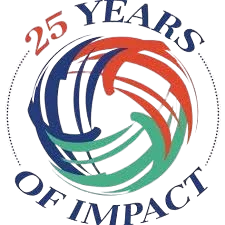
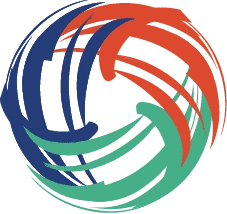
chore: refactor to use color tokens instead of raw colors

diff --git a/src/components/layout/footer.tsx b/src/components/layout/footer.tsx
@@ -4,6 +4,8 @@ import { Mail, MapPin } from 'lucide-react'
 import { SiFacebook, SiInstagram } from '@icons-pack/react-simple-icons'
 import { navLinks, org, socials } from '../../lib/data'
 import { ContactForm } from './contact-form'
+import Text from '../ui/text'
+import Heading from '../ui/heading'
 
 const LOGO_SRC = '/logo-images/logo_with_name_white.svg'
 
@@ -14,9 +16,7 @@ const socialLinks = [
 
 export function Footer() {
   return (
-    <footer className="flex bg-primary-950 text-white/70 justify-center">
-      {/* px-(--gutter): same side padding as the hero and page sections, so
-          footer content aligns with the rest of the site. Set in globals.css. */}
+    <footer className="flex bg-footer-bg text-footer-text justify-center">
       <div className="px-(--gutter) py-16 md:py-24">
         <div className="grid gap-12 lg:grid-cols-12">
           {/* Brand */}
@@ -34,38 +34,42 @@ export function Footer() {
                 className="h-8 w-auto"
               />
             </Link>
-            <p className="mt-5 max-w-sm text-sm leading-relaxed text-white/60">
+            <Text size="sm" className="mt-5 max-w-sm text-footer-text-muted">
               {org.about}
-            </p>
+            </Text>
 
             {/* Socials */}
-            <div className="mt-6 flex items-center gap-2">
+            <ul className="mt-6 flex items-center gap-2">
               {socialLinks.map(({ label, href, Icon }) => (
-                <a
-                  key={label}
-                  href={href}
-                  target="_blank"
-                  rel="noopener noreferrer"
-                  aria-label={label}
-                  className="inline-flex items-center justify-center rounded-full bg-white/5 p-2.5 text-white/70 transition-colors hover:bg-white/10 hover:text-white"
-                >
-                  <Icon size={20} aria-hidden="true" />
-                </a>
+                <li key={label}>
+                  <a
+                    href={href}
+                    target="_blank"
+                    rel="noopener noreferrer"
+                    aria-label={label}
+                    className="inline-flex items-center justify-center rounded-full bg-footer-surface p-2.5 text-footer-text transition-colors hover:bg-footer-surface-hover hover:text-footer-text-strong"
+                  >
+                    <Icon size={20} aria-hidden="true" />
+                  </a>
+                </li>
               ))}
-            </div>
+            </ul>
           </div>
 
           {/* Explore */}
-          <nav className="lg:col-span-2" aria-label="Footer">
-            <h3 className="text-sm font-semibold uppercase tracking-wider text-white">
+          <nav className="lg:col-span-2" aria-label="Footer navigation">
+            <Heading
+              level={3}
+              className="text-sm md:text-sm lg:text-sm font-semibold uppercase tracking-wider text-footer-text-strong"
+            >
               Explore
-            </h3>
-            <ul className="mt-4 space-y-2.5 text-sm">
+            </Heading>
+            <ul className="mt-4 space-y-2.5">
               {navLinks.map((link) => (
                 <li key={link.href}>
                   <Link
                     href={link.href}
-                    className="text-white/70 transition-colors hover:text-white"
+                    className="text-sm text-footer-text transition-colors hover:text-footer-text-strong"
                   >
                     {link.label}
                   </Link>
@@ -76,52 +80,62 @@ export function Footer() {
 
           {/* Get in touch */}
           <div className="lg:col-span-3">
-            <h3 className="text-sm font-semibold uppercase tracking-wider text-white">
+            <Heading
+              level={3}
+              className="text-sm md:text-sm lg:text-sm font-semibold uppercase tracking-wider text-footer-text-strong"
+            >
               Get in touch
-            </h3>
-            <ul className="mt-4 space-y-4 text-sm">
-              <li>
-                <a
-                  href={org.mapUrl}
-                  target="_blank"
-                  rel="noopener noreferrer"
-                  className="flex items-start gap-3 text-white/70 transition-colors hover:text-white"
-                >
-                  <MapPin
-                    size={18}
-                    className="mt-0.5 shrink-0"
-                    aria-hidden="true"
-                  />
-                  <span>{org.address}</span>
-                </a>
-              </li>
-              <li>
-                <a
-                  href={`mailto:${org.email}`}
-                  className="flex items-center gap-3 text-white/70 transition-colors hover:text-white"
-                >
-                  <Mail size={18} className="shrink-0" aria-hidden="true" />
-                  <span>{org.email}</span>
-                </a>
-              </li>
-            </ul>
+            </Heading>
+            <address className="not-italic">
+              <ul className="mt-4 space-y-4">
+                <li>
+                  <a
+                    href={org.mapUrl}
+                    target="_blank"
+                    rel="noopener noreferrer"
+                    className="flex items-start gap-3 text-sm text-footer-text transition-colors hover:text-footer-text-strong"
+                  >
+                    <MapPin
+                      size={18}
+                      className="mt-0.5 shrink-0"
+                      aria-hidden="true"
+                    />
+                    <span>{org.address}</span>
+                  </a>
+                </li>
+                <li>
+                  <a
+                    href={`mailto:${org.email}`}
+                    className="flex items-center gap-3 text-sm text-footer-text transition-colors hover:text-footer-text-strong"
+                  >
+                    <Mail size={18} className="shrink-0" aria-hidden="true" />
+                    <span>{org.email}</span>
+                  </a>
+                </li>
+              </ul>
+            </address>
           </div>
 
           {/* Contact us */}
           <div className="lg:col-span-3">
-            <h3 className="text-sm font-semibold uppercase tracking-wider text-white">
+            <Heading
+              level={3}
+              className="text-sm md:text-sm lg:text-sm font-semibold uppercase tracking-wider text-footer-text-strong"
+            >
               Contact us
-            </h3>
+            </Heading>
             <ContactForm />
           </div>
         </div>
 
         {/* Bottom bar */}
-        <div className="flex justify-between mt-14 border-t border-white/10 pt-8 text-xs text-white/50">
-          <p>
+        <div className="flex justify-between mt-14 border-t border-footer-border pt-8">
+          <Text size="xs" className="text-footer-text-faint">
             &#169; {org.founded}–{new Date().getFullYear()} {org.name}
-          </p>
-          <p>Terms of Service &#xb7; Privacy Policy</p>
+          </Text>
+          <Text size="xs" className="text-footer-text-faint">
+            Terms of Service &#xb7; Privacy Policy
+          </Text>
         </div>
       </div>
     </footer>

diff --git a/src/components/layout/contact-form.tsx b/src/components/layout/contact-form.tsx
@@ -3,17 +3,15 @@
 import { useState } from 'react'
 import { Send } from 'lucide-react'
 import { cn } from '../../lib/utils'
+import Text from '../ui/text'
+import Button from '../ui/button'
 
 const fieldClass = cn(
-  'w-full rounded-lg border border-white/15 bg-white/5 px-3 py-2 text-sm text-white',
-  'placeholder:text-white/40 transition-colors',
-  'focus:border-white/30 focus:bg-white/10 focus:outline-none',
+  'w-full rounded-lg border border-footer-field-border bg-footer-surface px-3 py-2 text-sm text-footer-text-strong',
+  'placeholder:text-footer-placeholder transition-colors',
+  'focus:border-footer-field-border-focus focus:bg-footer-surface-hover focus:outline-none',
 )
 
-/**
- * Footer contact form. Frontend-only for now — submitting just shows a
- * confirmation. Wire `handleSubmit` to a real endpoint / action later.
- */
 export function ContactForm() {
   const [submitted, setSubmitted] = useState(false)
 
@@ -25,9 +23,12 @@ export function ContactForm() {
 
   if (submitted) {
     return (
-      <p className="mt-4 rounded-lg border border-white/15 bg-white/5 px-3 py-4 text-sm text-white/80">
+      <Text
+        size="sm"
+        className="mt-4 rounded-lg border border-footer-field-border bg-footer-surface px-3 py-4 text-footer-text-secondary"
+      >
         Thanks for reaching out — we&apos;ll get back to you soon.
-      </p>
+      </Text>
     )
   }
 
@@ -57,17 +58,13 @@ export function ContactForm() {
         aria-label="Your message"
         className={cn(fieldClass, 'resize-y')}
       />
-      <button
+      <Button
         type="submit"
-        className={cn(
-          'inline-flex items-center justify-center gap-2 rounded-full bg-primary-400 px-4 py-2',
-          'text-sm font-semibold text-white shadow-sm transition-all duration-300 ease-out',
-          'hover:bg-primary-500 active:scale-95',
-        )}
+        className="rounded-full px-4 py-2 text-sm font-semibold gap-2"
       >
         Send message
         <Send size={16} aria-hidden="true" />
-      </button>
+      </Button>
     </form>
   )
 }

diff --git a/src/styles/globals.css b/src/styles/globals.css
@@ -97,6 +97,20 @@ README:
   --color-btn-primary: var(--btn-primary);
   --color-btn-primary-hover: var(--btn-primary-hover);
   --color-btn-secondary: var(--btn-secondary);
+
+  /* Footer (always dark/inverted surface) */
+  --color-footer-bg: var(--footer-bg);
+  --color-footer-text: var(--footer-text);
+  --color-footer-text-muted: var(--footer-text-muted);
+  --color-footer-text-strong: var(--footer-text-strong);
+  --color-footer-text-faint: var(--footer-text-faint);
+  --color-footer-text-secondary: var(--footer-text-secondary);
+  --color-footer-surface: var(--footer-surface);
+  --color-footer-surface-hover: var(--footer-surface-hover);
+  --color-footer-border: var(--footer-border);
+  --color-footer-field-border: var(--footer-field-border);
+  --color-footer-field-border-focus: var(--footer-field-border-focus);
+  --color-footer-placeholder: var(--footer-placeholder);
 }
 
 :root {
@@ -130,6 +144,20 @@ README:
     0 8px 32px rgba(0, 0, 0, 0.1), 0 2px 8px rgba(0, 0, 0, 0.06),
     inset 0 0 0 0.5px rgba(255, 255, 255, 0.12),
     inset 0 1px 12px rgba(255, 255, 255, 0.25);
+
+  /* Footer */
+  --footer-bg: var(--color-primary-950);
+  --footer-text: oklch(100% 0 0 / 70%);
+  --footer-text-muted: oklch(100% 0 0 / 60%);
+  --footer-text-strong: oklch(100% 0 0);
+  --footer-text-faint: oklch(100% 0 0 / 50%);
+  --footer-text-secondary: oklch(100% 0 0 / 80%);
+  --footer-surface: oklch(100% 0 0 / 5%);
+  --footer-surface-hover: oklch(100% 0 0 / 10%);
+  --footer-border: oklch(100% 0 0 / 10%);
+  --footer-field-border: oklch(100% 0 0 / 15%);
+  --footer-field-border-focus: oklch(100% 0 0 / 30%);
+  --footer-placeholder: oklch(100% 0 0 / 40%);
 
   /* Layout — mobile gutter; desktop override below */
   --gutter: 1.5rem;